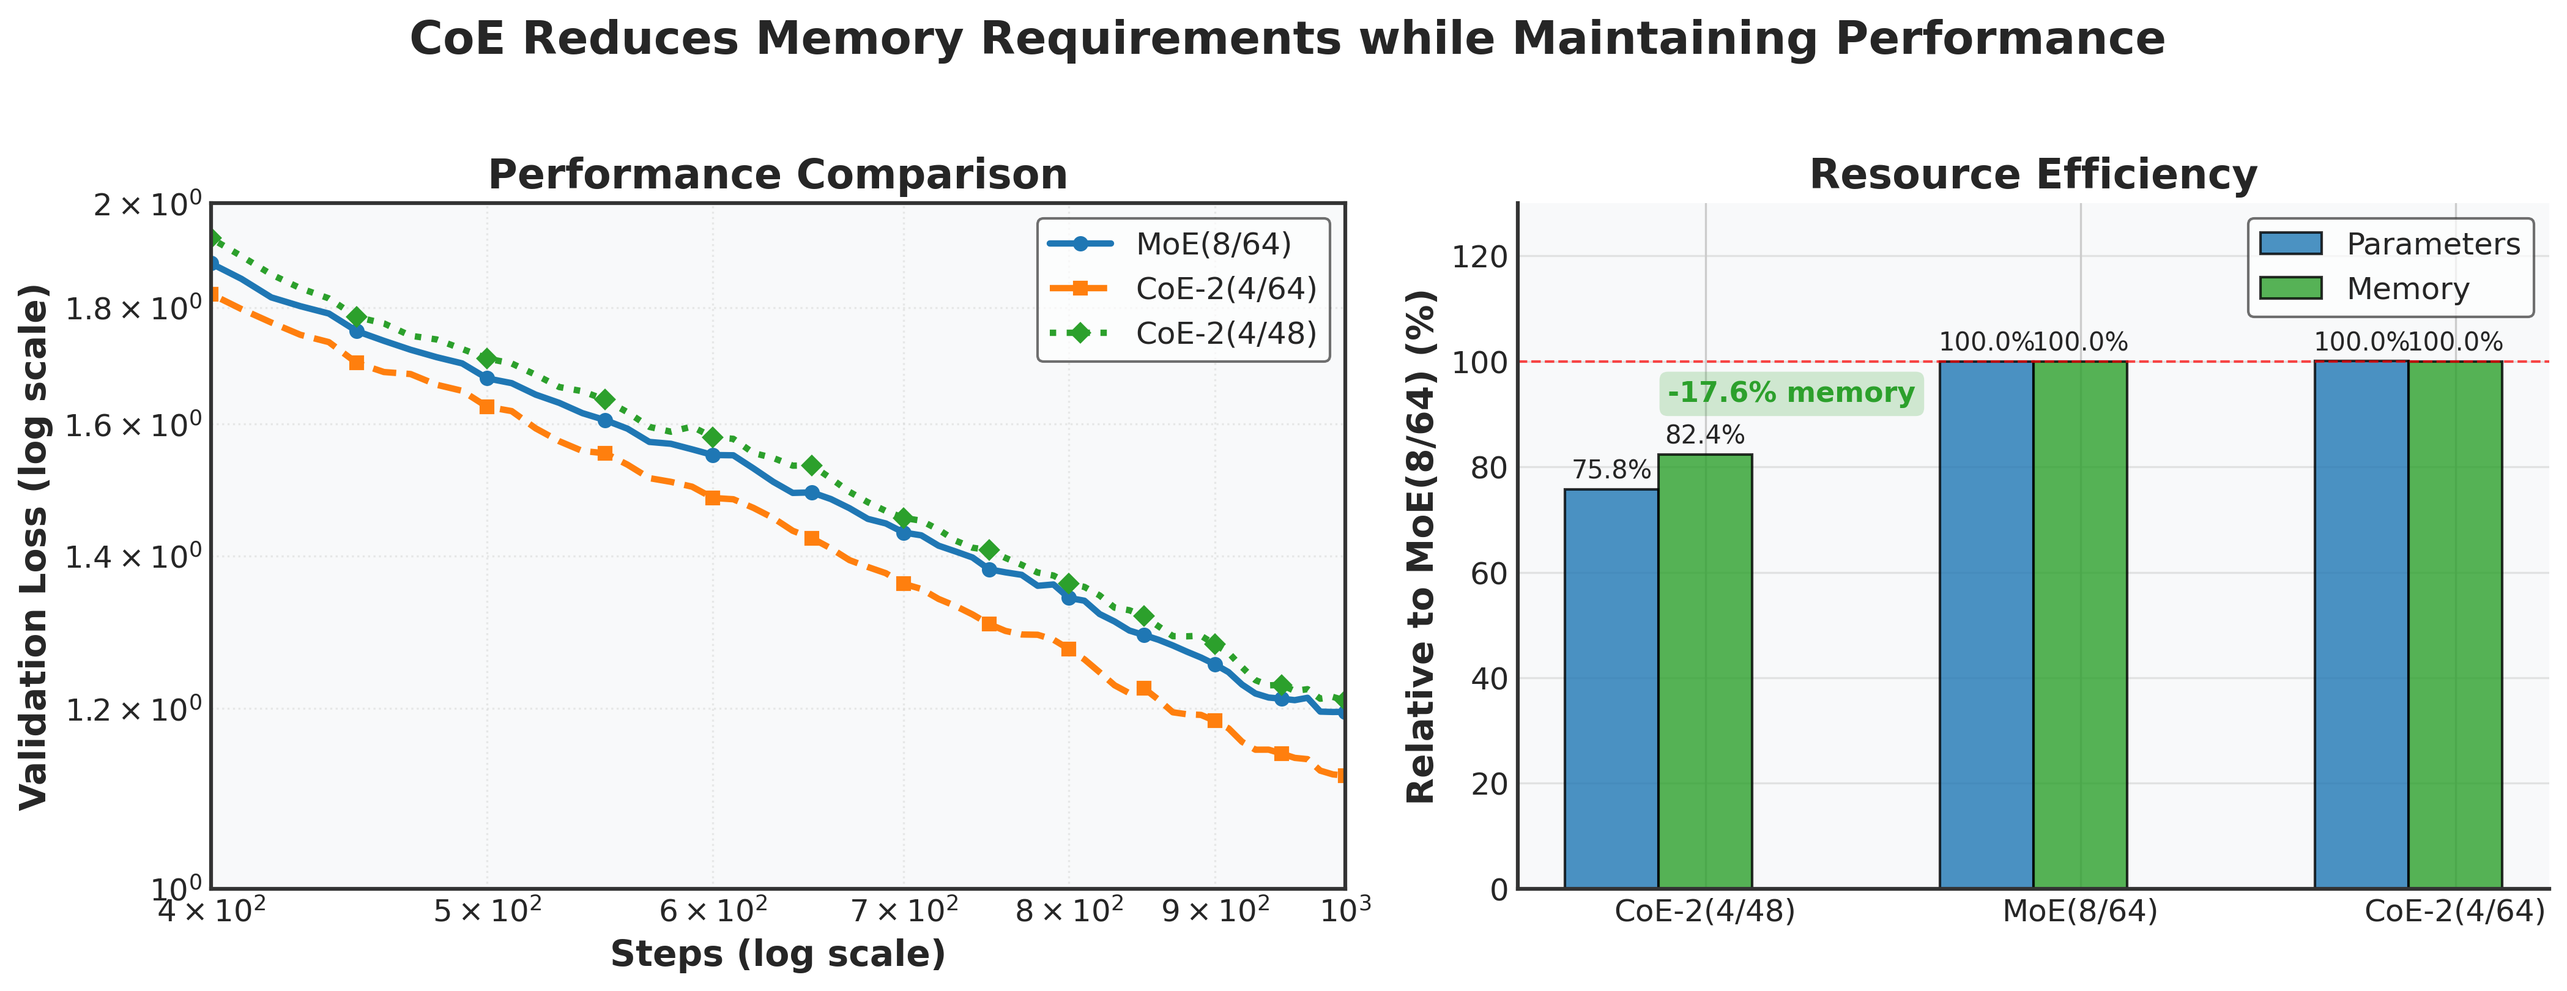
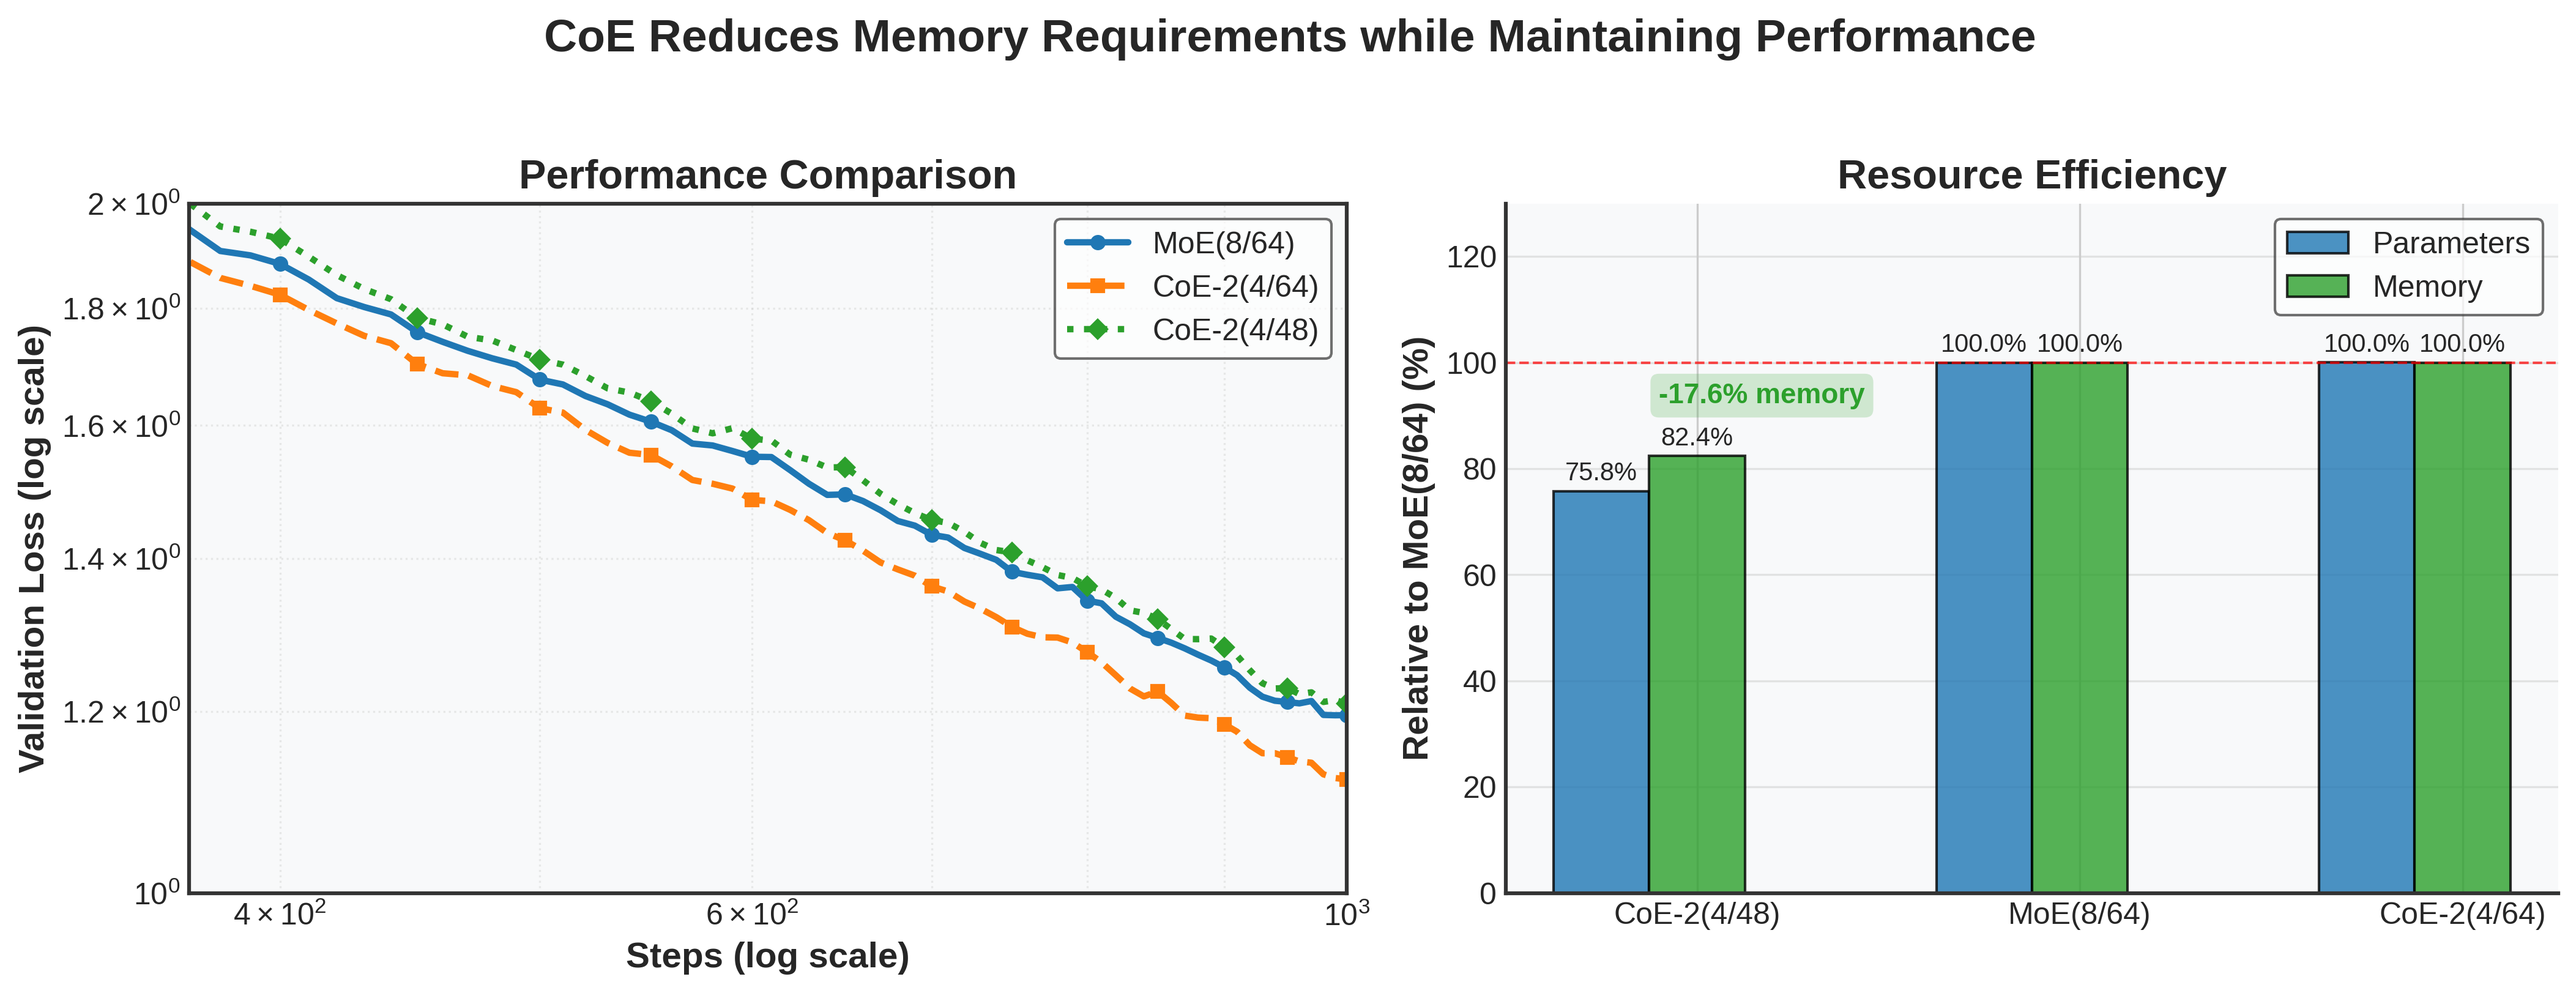
update

diff --git a/scripts/plot/plot_dense.py b/scripts/plot/plot_dense.py
@@ -1,0 +1,61 @@
+import matplotlib.pyplot as plt
+import numpy as np
+import matplotlib as mpl
+import pandas as pd
+
+plt.style.use('seaborn-v0_8-whitegrid')
+mpl.rcParams['font.size'] = 12
+mpl.rcParams['axes.linewidth'] = 1.5
+mpl.rcParams['axes.edgecolor'] = '#333333'
+
+fig, ax = plt.subplots(figsize=(12*0.7, 7*0.7))
+data = pd.read_csv('data6.tsv', sep='\t')
+
+data.columns = [col.strip() for col in data.columns]
+
+steps = data['Step'].values
+
+methods = [
+    'dsv2_coe_3-ds_8ept-8tpk-2itr - val/loss',    # dense2
+    'dsv2_coe_3-ds_8ept-8tpk-1itr - val/loss',    # dense1
+    'dsv2_coe_3-cc_64ept-8tpk-2itr - val/loss',   # sparse2
+    'dsv2_coe_3-fl_64ept-8tpk-1itr - val/loss'    # sparse1
+]
+
+labels = [
+    'Dense Recurrent-2(8/8)',
+    'Dense MoE(8/8)',
+    'Sparse CoE-2(8/64)',
+    'Sparse MoE(8/64)'
+]
+
+colors = ['#e41a1c', '#377eb8', '#4daf4a', '#984ea3']
+markers = ['o', 's', 'D', '^']
+linestyles = ['-', '--', ':', '-.']
+
+for i, (method, label) in enumerate(zip(methods, labels)):
+    if method in data.columns:
+        ax.loglog(steps, data[method].values, 
+                 label=label, 
+                 linestyle=linestyles[i], 
+                 linewidth=2.5,
+                 marker=markers[i],
+                 markersize=6,
+                 markevery=10,
+                 color=colors[i])
+
+ax.set_xlabel('Steps', fontweight='bold', fontsize=14)
+ax.set_ylabel('Validation Loss (log scale)', fontweight='bold', fontsize=14)
+ax.set_title('Recurrent Analysis: Sparse Models > Dense Models', fontweight='bold', fontsize=16)
+ax.legend(frameon=True, fontsize=12, framealpha=0.7, edgecolor='#333333', loc='upper right')
+ax.grid(True, which='minor', linestyle=':', alpha=0.4)
+ax.grid(True, which='major', linestyle='-', alpha=0.5)
+
+ax.set_xlim(370, 1000)
+ax.set_ylim(1, 2)
+
+ax.set_facecolor('#f8f9fa')
+
+plt.tight_layout()
+plt.savefig('plot_dense.png', dpi=300, bbox_inches='tight')
+plt.show()

diff --git a/scripts/plot/plot_abl.py b/scripts/plot/plot_abl.py
@@ -1,0 +1,61 @@
+import matplotlib.pyplot as plt
+import numpy as np
+import matplotlib as mpl
+import pandas as pd
+
+plt.style.use('seaborn-v0_8-whitegrid')
+mpl.rcParams['font.size'] = 12
+mpl.rcParams['axes.linewidth'] = 1.5
+mpl.rcParams['axes.edgecolor'] = '#333333'
+
+fig, ax = plt.subplots(figsize=(12*0.7, 7*0.7))
+data = pd.read_csv('data5.tsv', sep='\t')
+
+data.columns = [col.strip() for col in data.columns]
+
+steps = np.arange(10, (len(data) + 1) * 10, 10)
+
+methods = [
+    'dsv2_coe_3-ab_64ept-8tpk-2itr-noig - val/loss', 
+    'dsv2_coe_3-ab_64ept-8tpk-2itr-ore - val/loss',  
+    'dsv2_coe_3-cc_64ept-8tpk-2itr - val/loss',    
+    'dsv2_coe_3-fl_64ept-8tpk-1itr - val/loss'     
+]
+
+labels = [
+    'CoE w/o Independent Gate',
+    'CoE w/o Inner Residual',
+    'CoE-2(4/64)',
+    'MoE(8/64)'
+]
+
+colors = ['#e41a1c', '#377eb8', '#4daf4a', '#984ea3']
+markers = ['o', 's', 'D', '^']
+linestyles = ['-', '--', ':', '-.']
+
+for i, (method, label) in enumerate(zip(methods, labels)):
+    if method in data.columns:
+        ax.loglog(steps, data[method].values, 
+                 label=label, 
+                 linestyle=linestyles[i], 
+                 linewidth=2.5,
+                 marker=markers[i],
+                 markersize=6,
+                 markevery=10,
+                 color=colors[i])
+
+ax.set_xlabel('Steps', fontweight='bold', fontsize=14)
+ax.set_ylabel('Validation Loss (log scale)', fontweight='bold', fontsize=14)
+ax.set_title('Ablation Study: Independent Gate & Inner Residual', fontweight='bold', fontsize=16)
+ax.legend(frameon=True, fontsize=12, framealpha=0.7, edgecolor='#333333', loc='upper right')
+ax.grid(True, which='minor', linestyle=':', alpha=0.4)
+ax.grid(True, which='major', linestyle='-', alpha=0.5)
+
+ax.set_xlim(370, 1000)
+ax.set_ylim(1, 2)
+
+ax.set_facecolor('#f8f9fa')
+
+plt.tight_layout()
+plt.savefig('plot_abl.png', dpi=300, bbox_inches='tight')
+plt.show()

diff --git a/scripts/plot/plot_eff.py b/scripts/plot/plot_eff.py
@@ -53,7 +53,7 @@ ax1.set_title('Performance Comparison', fontweight='bold', fontsize=16)
 ax1.legend(frameon=True, fontsize=12, framealpha=0.7, edgecolor='#333333', loc='upper right')
 ax1.grid(True, which='minor', linestyle=':', alpha=0.4)
 ax1.grid(True, which='major', linestyle='-', alpha=0.5)
-ax1.set_xlim(400, 1000)
+ax1.set_xlim(370, 1000)
 ax1.set_ylim(1, 2)
 ax1.set_facecolor('#f8f9fa')
 
@@ -118,5 +118,5 @@ plt.suptitle('CoE Reduces Memory Requirements while Maintaining Performance',
 
 # Adjust layout and save
 plt.tight_layout(rect=[0, 0, 1, 0.95])
-plt.savefig('plot_efficiency.png', dpi=300, bbox_inches='tight')
+plt.savefig('plot_eff.png', dpi=300, bbox_inches='tight')
 plt.show()

diff --git a/scripts/plot/plot_scal.py b/scripts/plot/plot_scal.py
@@ -23,7 +23,7 @@ columns = ['64ept-8tpk-2itr', '64ept-8tpk-1itr', '64ept-16tpk-1itr', '64ept-24tp
 labels = ['CoE-2(8/64)', 'MoE(8/64)', 'MoE(16/64)', 'MoE(24/64)']
 
 # Plot with better aesthetics
-plt.figure(figsize=(12*0.85, 7*0.85))
+plt.figure(figsize=(12*0.7, 7*0.7))
 
 # Find the index where steps >= 100
 start_idx = np.where(steps >= 100)[0]
@@ -62,7 +62,7 @@ plt.grid(True, which='major', linestyle='-', alpha=0.5)
 # No annotation
 
 # Adjust axis limits to focus on the important part
-plt.xlim(400, 1000)
+plt.xlim(370, 1000)
 plt.ylim(1, 2)
 
 # Add a subtle background color

diff --git a/scripts/plot/plot_lyr.py b/scripts/plot/plot_lyr.py
@@ -58,7 +58,7 @@ ax1.set_title('Performance Comparison', fontweight='bold', fontsize=16)
 ax1.legend(frameon=True, fontsize=12, framealpha=0.7, edgecolor='#333333', loc='upper right')
 ax1.grid(True, which='minor', linestyle=':', alpha=0.4)
 ax1.grid(True, which='major', linestyle='-', alpha=0.5)
-ax1.set_xlim(400, 1000)
+ax1.set_xlim(370, 1000)
 ax1.set_ylim(1, 2)
 ax1.set_facecolor('#f8f9fa')
 
